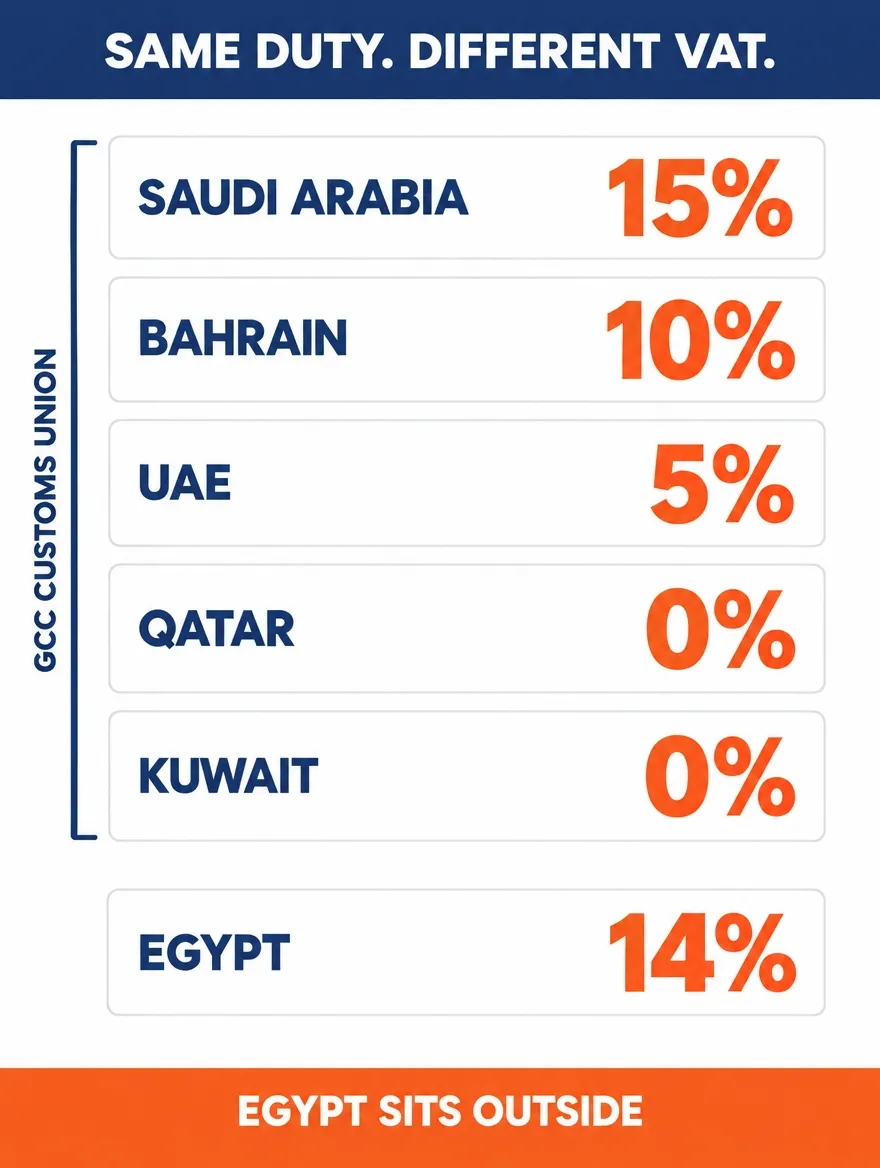
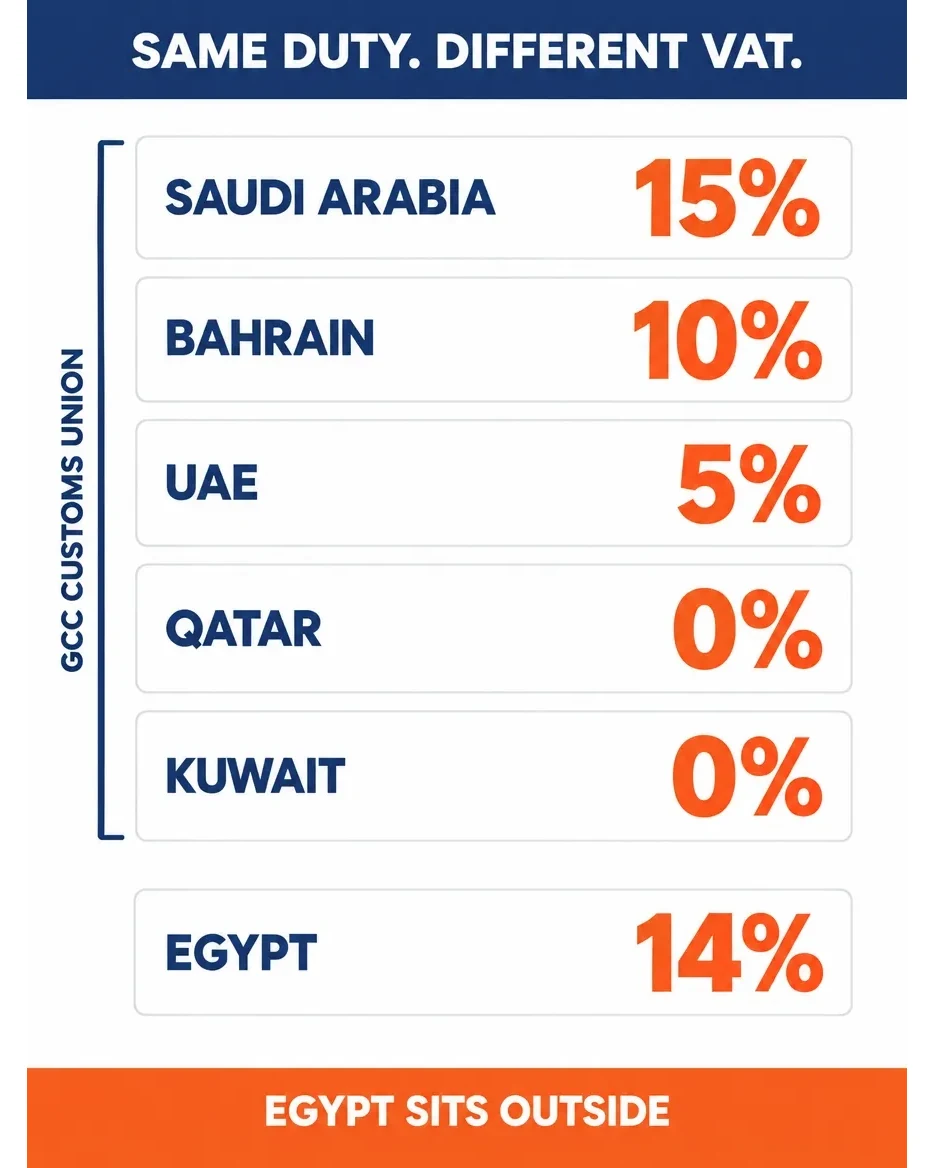
Publish the Middle East post with images
Both images arrived, so the post goes live: noindex removed, added to
sitemap.xml at 74 URLs, blog card generated.

Cropped the hero from 1360x768 to 1360x499 to reach the library's 2.72
ratio, biased slightly above centre so the subject's head survives rather
than being clipped by a straight centre crop.

Padded the infographic rather than cropping it. It arrived at 880x1168, a
0.753 ratio against the declared 4:5, and cropping 68 pixels of height
would have eaten into the header bar or the footer band. Padding the width
by 54 pixels of white reaches an exact 0.800 and loses nothing.

Checked the infographic figure by figure before publishing, since a wrong
rate on a tax graphic is worse than no graphic. All six correct: Saudi
Arabia 15, Bahrain 10, UAE 5, Qatar 0, Kuwait 0, Egypt 14, with the GCC
bracket spanning the right five and Egypt separated below. No garbled
text.

The hero is the closest match to the style guide yet: Chinese man in his
mid twenties in an orange polo with a chest logo, placing a kraft parcel
into a yellow tote, a colleague in the same polo scanning further down the
bench, green epoxy floor with yellow lines, blue racking.

Verified across all four recent posts: titles 45 to 52, metas 153 to 159,
one H1 each, FAQ schema matching visible accordions exactly, all in the
sitemap with blog cards, every image with declared dimensions matching the
file and substantive alt text, 0 WCAG AA contrast failures at 375px, no
[…]

diff --git a/blog.html b/blog.html
@@ -248,6 +248,18 @@ nav .nl a{white-space:nowrap}
  <div class="w">
  <div class="blog-grid" id="blogGrid">
 
+      <!-- NEW: China to the Middle East (2026): VAT, the GCC Customs Union and the COD Reality -->
+      <a href="middle-east-fulfillment-from-china-2026.html" class="post" data-cat="shipping">
+        <div class="post-img"><img src="/images/blog/middle-east-fulfillment-from-china-2026.webp" alt="China to the Middle East (2026): VAT, the GCC Customs Union and the COD Reality" width="400" height="200" loading="lazy" decoding="async"/></div>
+        <div class="post-body">
+          <div class="post-cat">Shipping</div>
+          <h3>China to the Middle East (2026): VAT, the GCC Customs Union and the COD Reality</h3>
+          <p>Six markets, one warehouse. GCC duty at 5%, VAT from zero to 15%, and why return-to-origin rates matter more than shippi...</p>
+          <div class="post-meta"><span>October 2026</span><span class="post-read">Read &rarr;</span></div>
+        </div>
+      </a>
+
+
       <!-- NEW: Subscription Box Fulfilment from China: Assembly, SKU Rotation and the Forecasting Problem -->
       <a href="subscription-box-fulfillment-from-china-2026.html" class="post" data-cat="ecom">
         <div class="post-img"><img src="/images/blog/subscription-box-fulfillment-from-china-2026.webp" alt="Subscription Box Fulfilment from China: Assembly, SKU Rotation and the Forecasting Problem" width="400" height="200" loading="lazy" decoding="async"/></div>

diff --git a/middle-east-fulfillment-from-china-2026.html b/middle-east-fulfillment-from-china-2026.html
@@ -7,7 +7,6 @@
 <title>Middle East Fulfilment from China: VAT, Duty, COD</title>
 <meta name="description" content="Six markets, one warehouse. GCC duty at 5%, VAT from zero to 15%, and why return-to-origin rates matter more than shipping cost when you sell cash on delivery."/>
 <link rel="canonical" href="https://www.china-fulfillment.com/middle-east-fulfillment-from-china-2026.html"/>
-<meta name="robots" content="noindex,nofollow"/><!-- UNPUBLISHED: remove this line to publish -->
 <meta property="og:title" content="China to the Middle East (2026): VAT, the GCC Customs Union and the COD Reality"/>
 <meta property="og:description" content="Six markets, one warehouse. GCC duty at 5%, VAT from zero to 15%, and why return-to-origin rates matter more than shipping cost when you sell cash on delivery."/>
 <meta property="og:image" content="https://www.china-fulfillment.com/images/blog/middle-east-fulfillment-from-china-2026.webp"/>
